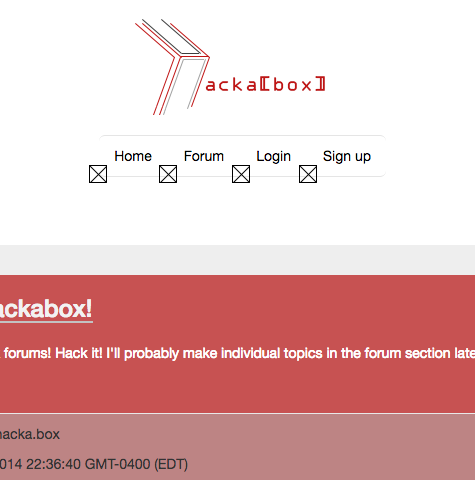
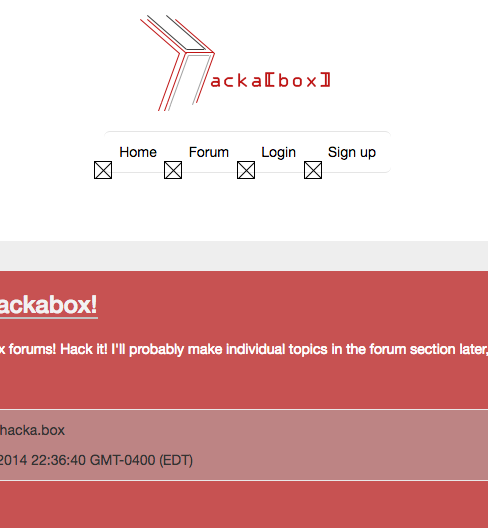
added demo shade pic bigger

diff --git a/main.css b/main.css
@@ -60,7 +60,7 @@ a, a:hover, a:active, a:visited, a:focus {
 #hackabox2 {background-color: #547345}
 #hackabox3 {background-color: #554889}
 
-#wordpress1 {background-color: #124445}
+#wordpress1 {background-color: #1AABDB;}
 #wordpress2 {background-color: #255553}
 #wordpress3 {background-color: #444444}
 
@@ -83,9 +83,38 @@ a, a:hover, a:active, a:visited, a:focus {
 /*HACKABOX*/
 
 .hackaboximg {
+	width: 100%;	
+	height: auto;
+	border-radius: 6px;
+}
+
+.demo {
+	position: absolute;
+	height: 100%;
+	width: 100%;
+	z-index: 2;
+	background-color: rgba(0, 0, 0, 0.2);
+	color: rgb(255, 255, 255);
+	font-size: 10vh;
+	border-radius: 6px;
+	text-align: center;
+}
+
+.demo>p {
+	line-height: 488px;
+	-ms-transform: rotate(-45deg); /* IE 9 */
+    -webkit-transform: rotate(-45deg); /* Safari */
+    transform: rotate(-45deg);
+}
+
+.wpimg {
 	max-width: 100%;	
 	max-height: auto;
 	border-radius: 6px;
+}
+
+.techwp {
+	margin-top: 16vh;
 }
 
 .hackaboximgsmall {
@@ -97,11 +126,19 @@ a, a:hover, a:active, a:visited, a:focus {
 
 .hackaboximgcont {
 	position: relative;
+	overflow: hidden;
+	padding-left: 0;
+	padding-right: 0;
 }
 
 .hacktext {
 	display: inline-block;
 	padding-top: 2vh;
+}
+
+.wordtext {
+	display: inline-block;
+	padding-top: 4vh;
 }
 
 .hacktext>p {
@@ -111,6 +148,15 @@ a, a:hover, a:active, a:visited, a:focus {
 	text-align: justify;
 	color: white;
 }
+
+.wordtext>p {
+	font-family: 'Raleway', sans-serif;
+	font-weight: 200;
+	font-size: 3vh;
+	text-align: justify;
+	color: white;
+}
+
 
 .titlep {
 	font-family: 'Raleway', sans-serif;
@@ -136,6 +182,14 @@ a, a:hover, a:active, a:visited, a:focus {
 	.hackaboximgsmall {
 		display: none;
 	}
+
+	.wpimg {
+		display: block;
+	}
+
+	.wpsmall {
+		display: none;
+	}
 }
 
 /* Landscape tablets and medium desktops */
@@ -156,12 +210,24 @@ a, a:hover, a:active, a:visited, a:focus {
 	.hackaboximgsmall {
 		display: none;
 	}
+
+	.wpimg {
+		display: block;
+	}
+
+	.wpsmall {
+		display: none;
+	}
+
+	.demo>p {
+		line-height: 300px;
+	}
 }
 
 /* Portrait tablets and small desktops */
 @media (min-width: 768px) and (max-width: 991px) {
 	.hackaboximgcont {
-		margin-top: 18vh;
+		margin-top: 10vh;
 	}
 
 	.hackaboximg {
@@ -170,6 +236,38 @@ a, a:hover, a:active, a:visited, a:focus {
 
 	.hackaboximgsmall {
 		display: none;
+	}
+
+	.wpimg {
+		display: block;
+	}
+
+	.wpsmall {
+		display: none;
+	}
+
+	.hacktext>p {
+		font-size: 1.6vh;
+	}
+
+	.titlep {
+		font-family: 'Raleway', sans-serif;
+		font-weight: 400;
+		font-size: 3.1vh;
+		text-align: center;
+		color: #C75252;
+	}
+
+	.subtitle {
+		font-family: 'Raleway', sans-serif;
+		font-weight: 400;
+		font-size: 2.1vh;
+		color: #C75252;
+	}
+
+	.demo>p {
+		line-height: 210px;
+		font-size: 6vh;
 	}
 }
 
@@ -183,7 +281,7 @@ a, a:hover, a:active, a:visited, a:focus {
 		display: inline;
 		overflow: hidden;
 		border-radius: 6px;
-		margin-top: 5vh;
+		margin-top: 6vh;
 	}
 
 	.hackaboximg {
@@ -191,6 +289,23 @@ a, a:hover, a:active, a:visited, a:focus {
 	}
 
 	.hackaboximgsmall {
+		display: block;
+	}
+
+	.demo>p {
+		-ms-transform: rotate(0deg); /* IE 9 */
+	    -webkit-transform: rotate(0deg); /* Safari */
+	    transform: rotate(0deg);
+	    line-height: 50px;
+	    font-size: 6vh;
+	    margin-top: 2vh;
+	}
+
+	.wpimg {
+		display: none;
+	}
+
+	.wpsmall {
 		display: block;
 	}
 
@@ -232,14 +347,18 @@ a, a:hover, a:active, a:visited, a:focus {
 		height: 100%;
 		line-height: 49px;
 		text-align: center;
-		font-size: 1.6vh;
+		font-size: 1.4vh;
 	}
 	.logo {
 		font-size: 2.2vh;
 	}
 
+	.demo>p {
+	    margin-top: 0;
+	}
+
 	.hackaboximgcont {
-		margin-top: 5vh;
+		margin-top: 7vh;
 	}
 
 	.hackaboximg {
@@ -250,8 +369,16 @@ a, a:hover, a:active, a:visited, a:focus {
 		display: block;
 	}
 
+	.wpimg {
+		display: none;
+	}
+
+	.wpsmall {
+		display: block;
+	}
+
 	.hacktext {
-		margin-top: 3vh;
+		margin-top: 1vh;
 	}
 
 	.hacktext>p {

diff --git a/index.html b/index.html
@@ -31,7 +31,7 @@
 		<div class="row">
 			<nav class="navbar navbar-fixed-top">
 				<div class="row">
-					<div class="logo col-lg-5 col-lg-offset-10 col-md-5 col-md-offset-9 col-sm-7 col-sm-offset-7 col-xs-8 col-xs-offset-4">Eamon White</div>
+					<div class="logo col-lg-5 col-lg-offset-10 col-md-5 col-md-offset-9 col-sm-7 col-sm-offset-7 col-xs-9 col-xs-offset-3">Eamon White</div>
 					<div class='menuholder col-lg-11 col-md-13 col-sm-16'>
 						<a href="#firstPage" type="button" class="menubutton inlineblock col-lg-9 col-md-9">HOME</a>
 						<a type="button" class="menubutton inlineblock col-lg-9 col-md-9">PROJECTS</a>
@@ -50,7 +50,11 @@
 					<div class="slide" id="hackabox1">
 						<div class='container-fluid'>
 							<div class="row">
-								<div class='col-lg-14 col-lg-offset-3 col-md-11 col-md-offset-3 col-sm-9 col-sm-offset-3 col-xs-28 col-xs-offset-4 hackaboximgcont'><img class='hackaboximg' src='images/portfoliohackabox.png'><img class='hackaboximgsmall' src='images/hackaboxquery700.png'></div>
+								<div class='col-lg-14 col-lg-offset-3 col-md-11 col-md-offset-3 col-sm-9 col-sm-offset-3 col-xs-28 col-xs-offset-4 hackaboximgcont'>
+									<div class='demo'><p>DEMO</p></div>
+									<img class='hackaboximg' src='images/portfoliohackabox.png'>
+									<img class='hackaboximgsmall' src='images/hackaboxquery700.png'>
+								</div>
 								<div class='hacktext col-lg-15 col-lg-offset-1 col-md-18 col-sm-20 col-sm-offset-1 col-xs-28 col-xs-offset-4'>
 									<div class = "titlep">Hackabox</div></br>
 						    		<div class = "subtitle">Goals:</div><p>To develop a MEAN stack website for my Hackabox project, including a forum built from scratch.</p>
@@ -66,7 +70,22 @@
 					<div class="slide" id="hackabox3">More Text</div>
 				</div>
 				<div class="section" id="wordpress">
-					<div class="slide" id="wordpress1">Wordpress</div>
+					<div class="slide" id="wordpress1">
+						<div class='container-fluid'>
+							<div class='row'>
+								<div class='col-lg-14 col-lg-offset-3 col-md-11 col-md-offset-3 col-sm-9 col-sm-offset-3 col-xs-28 col-xs-offset-4 wpimgcont inlineblock'>
+									<img class='wpimg' src='images/themeboximg.png'>
+									<img class='wpsmall' src='images/themeboximg700.png'>
+								</div>
+								<span class="techwp col-lg-12 col-lg-offset-1 col-md-12 col-sm-12 col-xs-11">
+						    		<img class="wpbannerimg" id="wordpress" src="images/wordpress.png">
+						    	</span>
+								<div class='wordtext col-lg-15 col-lg-offset-1 col-md-18 col-sm-20 col-sm-offset-1 col-xs-28 col-xs-offset-4'>
+							    	<p>This is a Wordpress theme I developed from scratch. It is responsive. I also built a contact form Wordpress plugin to go with it (the contact page is a plugin). All the front-end work is custom, I used a bootstrap scaffold to start it. It is meant to be a blog. Continue to the next slides for more details.</p>
+								</div>
+							</div>
+						</div>
+					</div>
 					<div class="slide" id="wordpress2">More Text</div>
 					<div class="slide" id="wordpress3">More Text</div>
 				</div>
